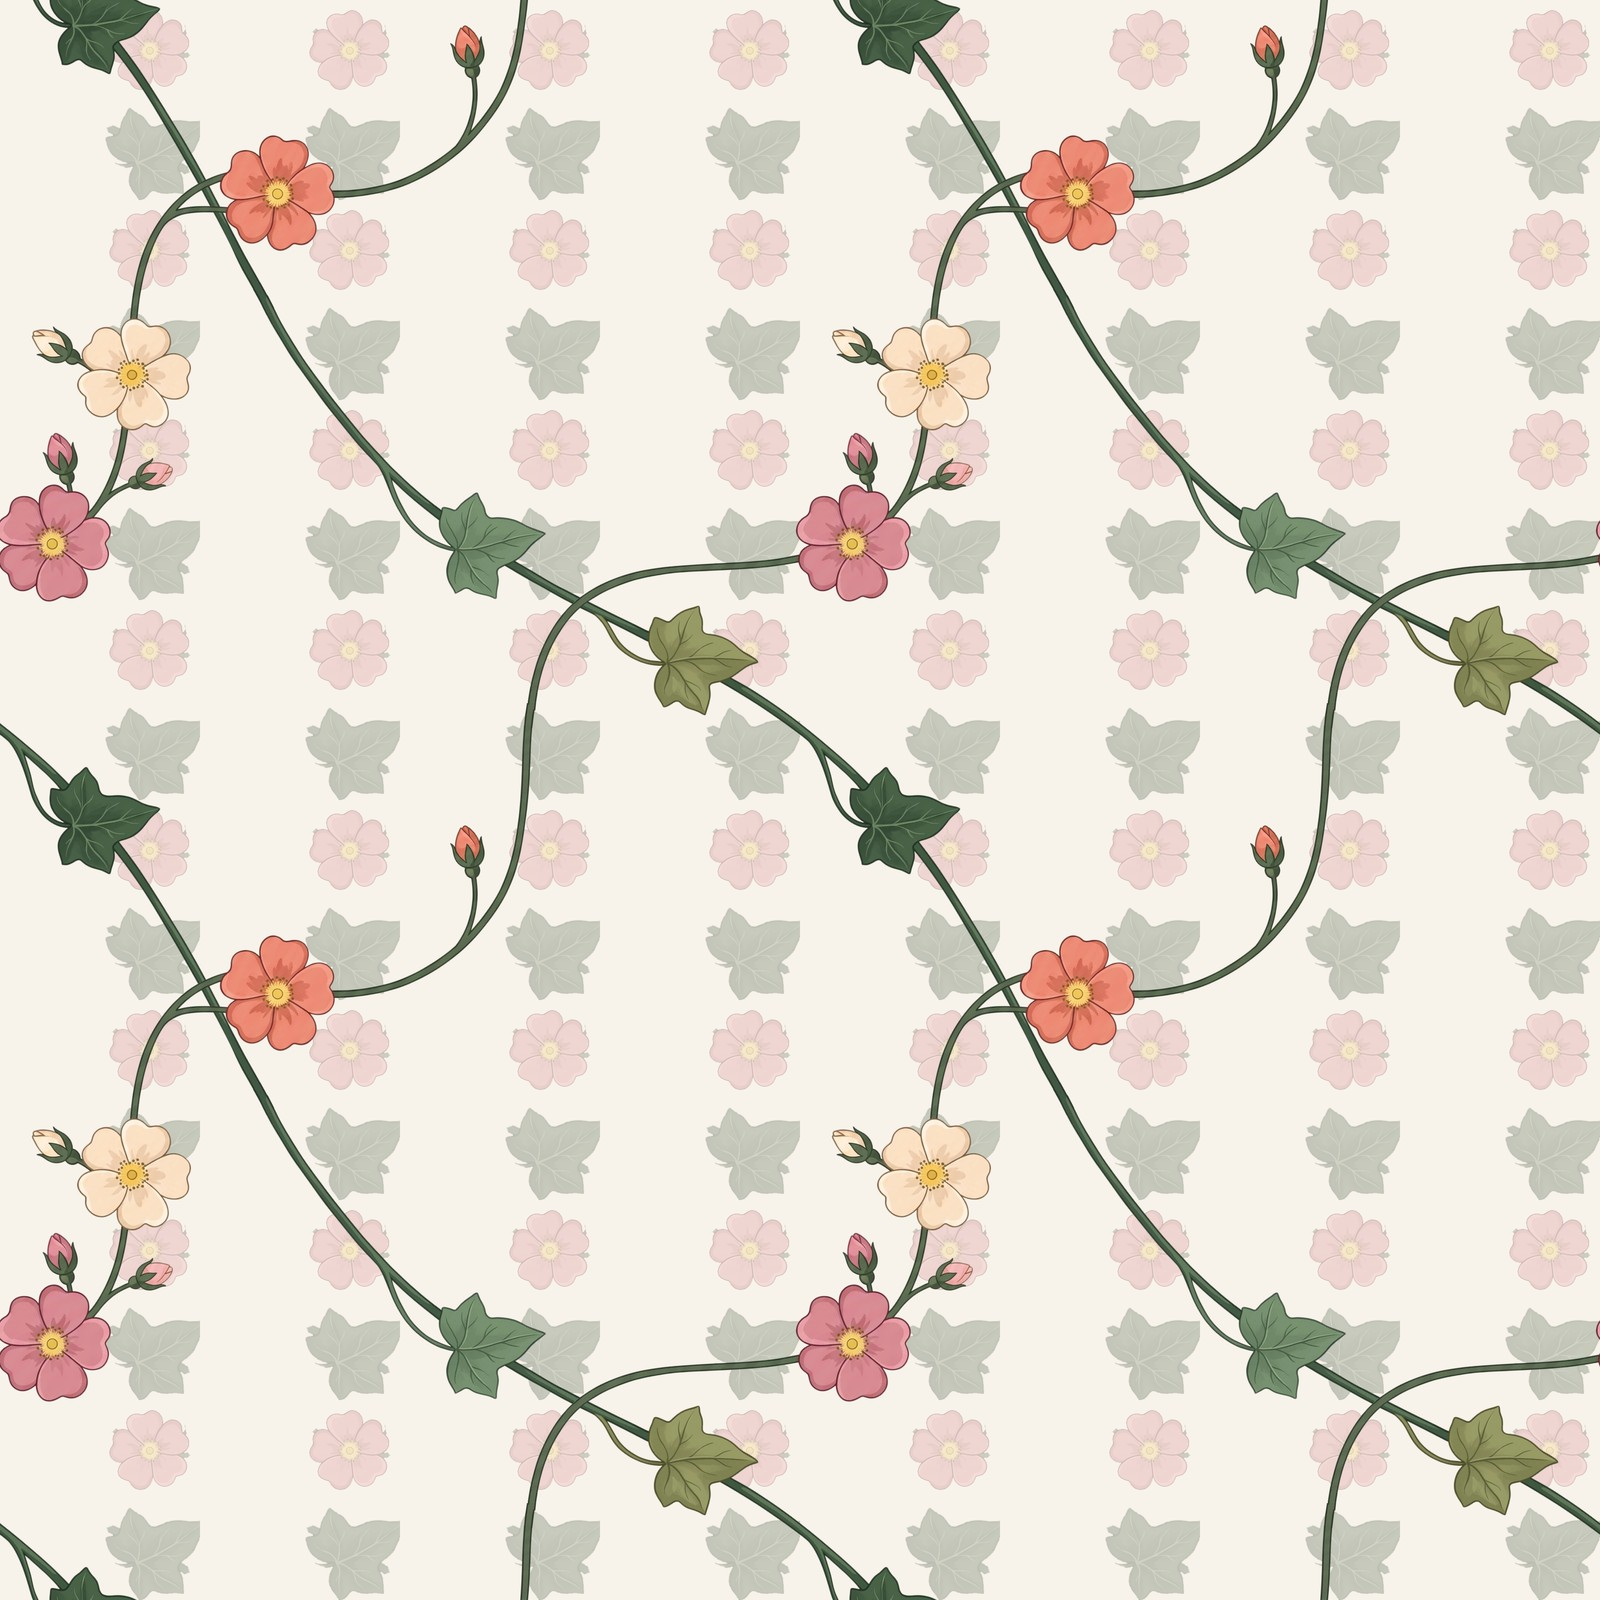
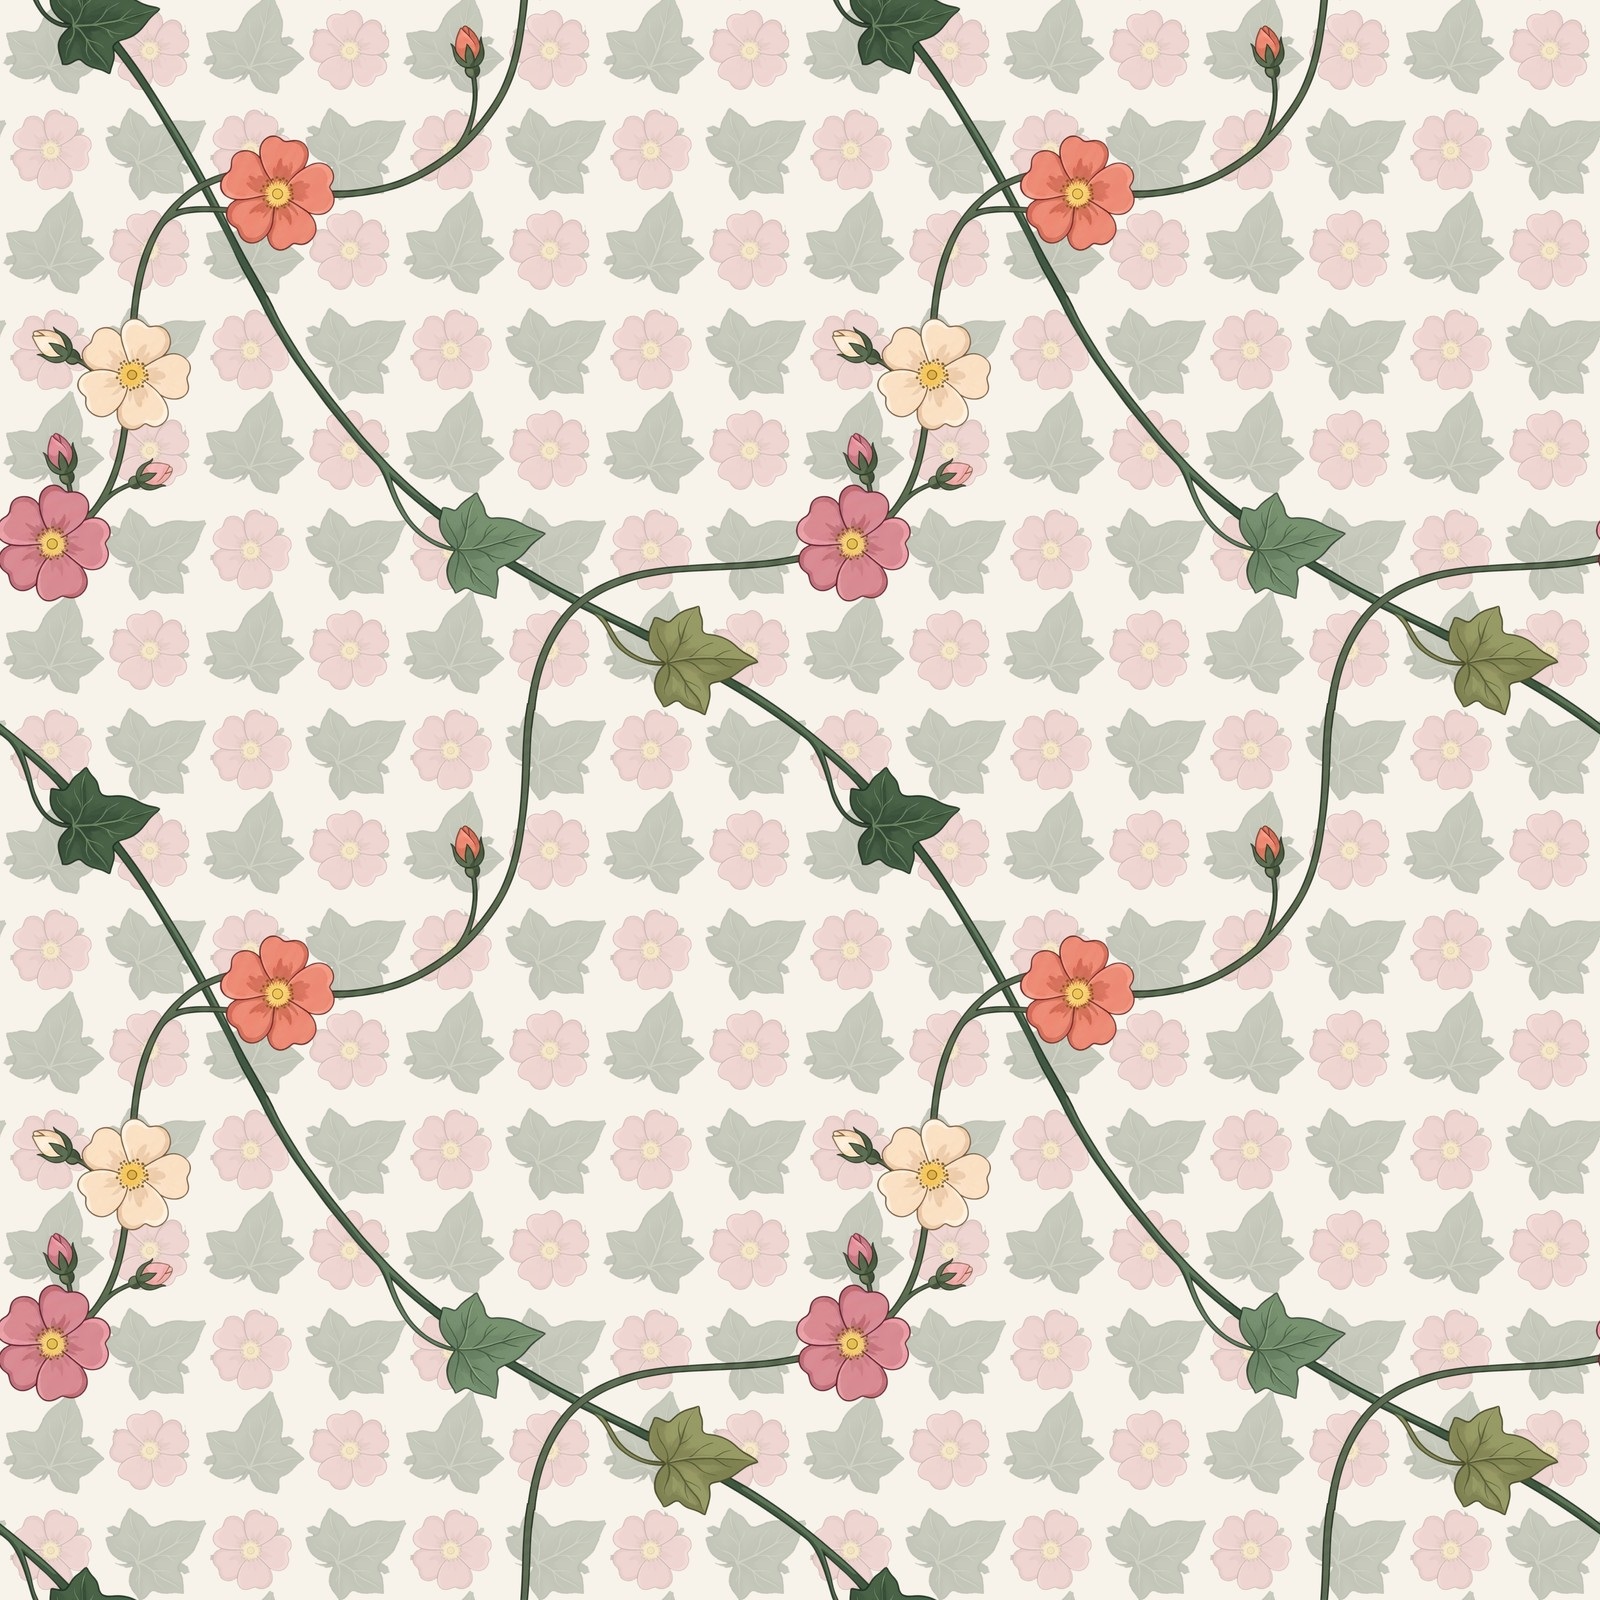
Ситец: исправлен фон примера двух слоёв (обёртка по тору, проверка швов под-плиток)

diff --git a/паттерн_ситец/фон/фон_и_лозы.py b/паттерн_ситец/фон/фон_и_лозы.py
@@ -29,9 +29,9 @@ tile=Image.new('RGBA',(P,P),bgc+(255,))
 spots=[(0.25,0.25,leaves,0.50,18),(0.75,0.25,flowers,0.40,0),(0.25,0.75,flowers,0.40,40),(0.75,0.75,leaves,0.50,-25)]
 for fx,fy,pool,hh,rot in spots:
     m=tint(random.choice(pool),a.tint); m=fit(m,int(P*hh)).rotate(rot,expand=True,resample=Image.BICUBIC)
-    for ox in (-P,0,P):
+    for ox in (-P,0,P):                                        # обёртка по тору: часть, ушедшая за край, возвращается с другой стороны
         for oy in (-P,0,P):
-            tile.alpha_composite(m,(int(fx*P-m.width/2)+ox,int(fy*P-m.height/2)+oy)) if (0<=int(fx*P-m.width/2)+ox<P and 0<=int(fy*P-m.height/2)+oy<P) else None
+            tile.paste(m,(int(fx*P-m.width/2)+ox,int(fy*P-m.height/2)+oy),m)
 bg=Image.new('RGBA',(R,R))
 for x in range(a.n):
     for y in range(a.n): bg.paste(tile,(x*P,y*P))
@@ -41,4 +41,9 @@ for x in (0,1):
     for y in (0,1): t.paste(out,(x*R,y*R))
 t.resize((1600,1600),Image.LANCZOS).save(a.out.replace('.png','_2x2.jpg'),quality=90)
 o=np.array(out).astype(float); inner=(np.abs(o[:,1:]-o[:,:-1]).mean()+np.abs(o[1:]-o[:-1]).mean())/2
+# швы фона: разница на границах под-плиток (каждые P px) против обычных соседних столбцов/строк
+def seam(o,P):
+    cols=[np.abs(o[:,x]-o[:,x-1]).mean() for x in range(P,R,P)]; rows=[np.abs(o[y]-o[y-1]).mean() for y in range(P,R,P)]
+    return np.mean(cols),np.mean(rows)
+bgo=np.array(bg.convert('RGB')).astype(float); print('ФОН отдельно: на границах под-плиток %.2f / %.2f, внутри %.2f'%(*seam(bgo,P),(np.abs(bgo[:,1:]-bgo[:,:-1]).mean()+np.abs(bgo[1:]-bgo[:-1]).mean())/2))
 print('внутри %.2f; лево-право %.2f; верх-низ %.2f'%(inner,np.abs(o[:,-1]-o[:,0]).mean(),np.abs(o[-1]-o[0]).mean()))
